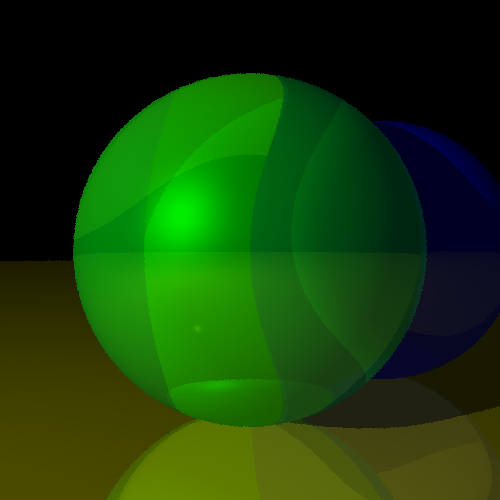
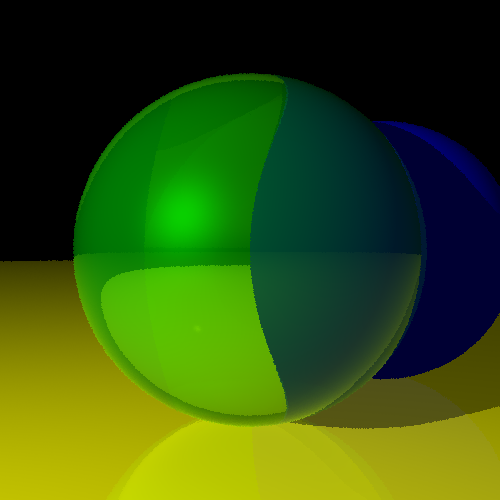
Trying to solve refraction

diff --git a/implementation/scene.cpp b/implementation/scene.cpp
@@ -1,6 +1,7 @@
 #include <bits/stdc++.h>
 #include <cmath>
 #include "../header/scene.hpp"
+#include "../header/plan.hpp"
 #include "../header/comparator.hpp"
 #include "../header/camera.hpp"
 #include "../header/plan.hpp"
@@ -61,6 +62,35 @@ px scene::compute_lighting(vp P, vp N, vp V, object *obj)
     return i;
 }
 
+double mix(double a, double b, double mix)
+{
+    return b * mix + a * (1 - mix);
+}
+
+vp scene::refractRay(vp D, vp P, vp n, object *obj){
+    vp refN = n;
+    double etaT = obj->get_ni();
+    //std::cout<<etaT<<std::endl;
+    double etaI = 1.0;
+    double i_dot_n = D*n;
+    if(i_dot_n<0){
+        i_dot_n = -i_dot_n;
+    }else{
+        refN = n * -1;
+        etaT = 1.0;
+        etaI = obj->get_ni();
+    }
+    double eta = etaI/etaT;
+    double k = 1.0 - (eta*eta) * (1 - i_dot_n * i_dot_n);
+    if(k < 0)
+        return vp(0,0,0);
+    vp refractVec3Ray =  (D + (refN*i_dot_n))*eta - refN*sqrt(k);
+    refractVec3Ray = refractVec3Ray/(~refractVec3Ray); 
+    vp refractedRay = P+refractVec3Ray*0.01 - P+refractVec3Ray;
+    refractedRay = refractedRay/(~refractedRay);
+    return refractedRay;
+}
+
 std::tuple<px, object *> scene::trace_ray(vp O, vp D, double t_min, double t_max, int i, int j, int recursion_depth, double ni)
 {
     object *closest_object = nullptr;
@@ -78,37 +108,40 @@ std::tuple<px, object *> scene::trace_ray(vp O, vp D, double t_min, double t_max
             nulo = false;
         }
     }
+
     if (nulo)
         return {c.get_background_color(), closest_object};
     if (closest_object->get_has_image())
         closest_object->set_pixel_image(i, j);
+
     vp P = O + D * closest;
+    bool inside = false;
     if (comparator::g(D * n, 0))
-        n = -n;
+        n = -n, inside = true;
 
     px local_color = compute_lighting(P, n, -D, closest_object);
 
-    // reflective
-    double reflex = closest_object->get_reflective();
-    if (recursion_depth <= 0 || reflex <= 0)
+    // Difuse Object
+    if(recursion_depth <= 0 || (comparator::eq(closest_object->get_reflective(), 0.0) && comparator::eq(closest_object->get_transparency(), 0.0)))
         return {local_color, closest_object};
 
-    //refracted
-    vp T = refracted_ray(-D, n, ni, closest_object->get_ni());
-    px c_refracted(0, 0, 0);
-    if(T != vp(0, 0, 0)){
-        px refracted_color; object *refracted_obj;
-        std::tie(refracted_color, refracted_obj) = this->trace_ray(P, T, 0.001, INF, i, j, recursion_depth - 1, closest_object->get_ni());
-        c_refracted = refracted_color*closest_object->get_transparency();
-    }
+    vp refle_ray = reflection_ray(-D, n);
+    vp refra_ray = refracted_ray(-D, n, ni, closest_object->get_ni());
+    // vp refra_ray = refractRay(D, P, n, closest_object);
+    px refle_color(0, 0, 0), refra_color(0, 0, 0), final_color(0, 0, 0);
+    object *aux_object;
 
+    std::tie(refle_color, aux_object) = trace_ray(P, refle_ray, t_min, t_max, i, j, recursion_depth-1, 1.0003);
+    std::tie(refra_color, aux_object) = trace_ray(P, refra_ray, t_min, t_max, i, j, recursion_depth-1, 1.0003);
 
-    px reflected_color;
-    object *reflected_obj;
-    vp R = reflection_ray(-D, n);
-    std::tie(reflected_color, reflected_obj) = this->trace_ray(P, R, 0.001, INF, i, j, recursion_depth - 1, 1.0003);
-    px c_reflected = local_color * (1 - reflex) + reflected_color * reflex;
-    return {c_reflected + c_refracted, closest_object};
+    // Fresnel Effect
+    double facingratio = -D*n;
+    double fr = mix(pow(1 - facingratio, 3), 1, 0.1);
+
+    final_color =  refra_color*(1-fr) + refle_color*fr;
+    final_color = final_color + local_color*(1-closest_object->get_transparency());
+
+    return {final_color, closest_object};
 }
 
 vp scene::xy(int i, int j)
@@ -188,7 +221,7 @@ void scene::draw_scenario(bool change_coordinates, int recursion_depth, int qnt_
             color = px(0, 0, 0);
             for(int k = 0; k < qnt_samples; k++){
                 std::tie(O, D) = ray_equation(i, j);
-                std::tie(color, choosen_object) = trace_ray(O, D, 1.0, INF, i, j, recursion_depth, 1.0003);
+                std::tie(color, choosen_object) = trace_ray(O, D, 0.001, INF, i, j, recursion_depth, 1.0003);
                 acm = acm+color;
             }
             c.to_color(i, j, acm/qnt_samples, choosen_object);

diff --git a/main.cpp b/main.cpp
@@ -38,9 +38,30 @@ scene ball_reflection()
     scene cena(O, vw, c, PROJECTION::PERSPECITVE);
 
     // cena.add_object(new sphere(vp(0, -1, 3), 1, px(px::convert_rgb(255, 0, 0)), px(px::convert_rgb(255, 0, 0)), px(px::convert_rgb(255, 0, 0)), 500, 0.2, 1.0, 1.5));
-    cena.add_object(new sphere(vp(0, 0, 3), 1, px(px::convert_rgb(0, 255, 0)), px(px::convert_rgb(0, 255, 0)), px(px::convert_rgb(0, 255, 0)), 10, 0.4, 0.5, 1.5));
-    cena.add_object(new sphere(vp(-1.0, 0, 4), 1, px(px::convert_rgb(0, 0, 255)), px(px::convert_rgb(0, 0, 255)), px(px::convert_rgb(0, 0, 255)), 500, 0.3, 0.0, 1.5));
+    cena.add_object(new sphere(vp(0, 0, 3), 1, px(px::convert_rgb(0, 255, 0)), px(px::convert_rgb(0, 255, 0)), px(px::convert_rgb(0, 255, 0)), 10, 0.0, 0.5, 1.5));
+    cena.add_object(new sphere(vp(-1.0, 0, 4), 1, px(px::convert_rgb(0, 0, 255)), px(px::convert_rgb(0, 0, 255)), px(px::convert_rgb(0, 0, 255)), 500, 0.0, 0.0, 1.5));
     cena.add_object(new sphere(vp(0, -5001, 0), 5000, px(px::convert_rgb(255, 255, 0)), px(px::convert_rgb(255, 255, 0)), px(px::convert_rgb(255, 255, 0)), 1000, 0.5, 0.0, 1.5));
+
+    cena.add_light(new ambient_light(px(0.2, 0.2, 0.2)));
+    cena.add_light(new point_light(px(0.6, 0.6, 0.6), vp(2, 1, 0)));
+    cena.add_light(new direction_light(px(0.2, 0.2, 0, 2), vp(1, 4, 4)));
+
+    return cena;
+}
+
+scene ball_isa()
+{
+    camera O(vp(0, 5, 0), vp(0, 0, 4), vp(0, 50, 0));
+    viewport vw(60, 60, -60);
+    canvas c(500, 500, px::convert_rgb(0, 0, 0));
+    scene cena(O, vw, c, PROJECTION::PERSPECITVE);
+
+    cena.add_object(new plan(vp(0, 1, 0), vp(0, 1, 0), px(px::convert_rgb(0, 0, 255)), px(px::convert_rgb(0, 0, 255)), px(px::convert_rgb(0, 0, 255)), 10, 0.2, 0.6, 1.003));
+    cena.add_object(new plan(vp(0, -1, 0), vp(0, 1, 0), px(px::convert_rgb(0, 255, 0)), px(px::convert_rgb(0, 255, 0)), px(px::convert_rgb(0, 255, 0)), 10, 0, 0, 0));
+    cena.add_object(new sphere(vp(0, 0, 6), 1, px(px::convert_rgb(255, 0, 0)), px(px::convert_rgb(255, 0, 0)), px(px::convert_rgb(255, 0, 0)), 500, 0, 0, 0));
+    // cena.add_object(new sphere(vp(0, 0, 3), 1, px(px::convert_rgb(0, 255, 0)), px(px::convert_rgb(0, 255, 0)), px(px::convert_rgb(0, 255, 0)), 10, 0.4, 0.5, 1.5));
+    // cena.add_object(new sphere(vp(-1.0, 0, 4), 1, px(px::convert_rgb(0, 0, 255)), px(px::convert_rgb(0, 0, 255)), px(px::convert_rgb(0, 0, 255)), 500, 0.3, 0.0, 1.5));
+    // cena.add_object(new sphere(vp(0, -5001, 0), 5000, px(px::convert_rgb(255, 255, 0)), px(px::convert_rgb(255, 255, 0)), px(px::convert_rgb(255, 255, 0)), 1000, 0.5, 0.0, 1.5));
 
     cena.add_light(new ambient_light(px(0.2, 0.2, 0.2)));
     cena.add_light(new point_light(px(0.6, 0.6, 0.6), vp(2, 1, 0)));
@@ -52,7 +73,8 @@ scene ball_reflection()
 int main()
 {
     // scene cena = teste();
-    int recursion_depth = 0, qnt_samples = 1;
+    int recursion_depth = 3, qnt_samples = 1;
+    // scene cena = ball_reflection();
     scene cena = ball_reflection();
     cena.draw_scenario(true, recursion_depth, qnt_samples);
     cena.save_scenario("image.png");

diff --git a/header/scene.hpp b/header/scene.hpp
@@ -41,6 +41,8 @@ private:
 
     double rd(double min_max);
     std::tuple<vp, vp> ray_equation(int i, int j);
+    bool fresnel(vp D, vp n, object *obj, double & kr);
+    vp refractRay(vp D, vp P, vp n, object *obj);
 
 public:
     scene(camera O, viewport vw, canvas c, PROJECTION p);
